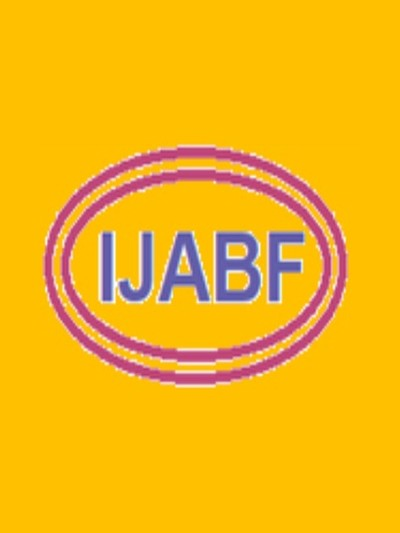
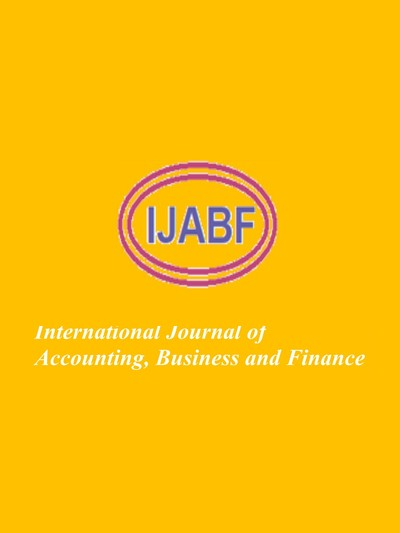
Put the proceedings last, and give IJABF a cover that reads
The proceedings led the outlets list, which put the volume every accepted
paper appears in ahead of the journals authors are trying to reach. The list
now runs from the most selective journal down to that floor.

IJABF's cover is rebuilt from its own masthead — roundel above, title beneath,
on the journal's yellow. The issue cover's masthead is a wide strip that
became an illegible smear once letterboxed into the card's 3:4, and the
roundel alone read clearly but looked like an icon rather than a journal.

Changed region(s): [[0.09, 0.2702, 0.93, 0.7505]]

diff --git a/src/components/landing/LandingPage.tsx b/src/components/landing/LandingPage.tsx
@@ -242,14 +242,6 @@ export const FAQ_ITEMS: { q: string; a: string }[] = [
 
 const PUBLICATIONS = [
   {
-    title: "GLOGIFT 27 Conference Proceedings",
-    badge: "Book with ISBN",
-    cover: "/journals/proceedings.svg",
-    url: "",
-    detail:
-      "All accepted and presented papers appear in a dedicated proceedings volume.",
-  },
-  {
     title: "Global Journal of Flexible Systems Management",
     badge: "Springer · ABDC-A",
     cover: "/journals/gjfsm.jpg",
@@ -294,6 +286,17 @@ const PUBLICATIONS = [
     cover: "/journals/rml.jpg",
     url: "https://www.emeraldgrouppublishing.com/book-series/review-management-literature",
     detail: "Selected best papers fast-tracked as book chapters.",
+  },
+  // Last deliberately: the proceedings take every accepted paper, so they are
+  // the floor rather than an outlet to aim for. The list now runs from the
+  // most selective journal down to the volume everyone appears in.
+  {
+    title: "GLOGIFT 27 Conference Proceedings",
+    badge: "Book with ISBN",
+    cover: "/journals/proceedings.svg",
+    url: "",
+    detail:
+      "All accepted and presented papers appear in a dedicated proceedings volume.",
   },
 ];
 
